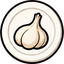
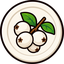
Quacks: snowberry white chip; build version now tracks picture contents so swapped art updates on phones
Claude-Session: https://claude.ai/code/session_01AnktqTJyz91h8fQDCCc9PS

diff --git a/sw.js b/sw.js
@@ -1,5 +1,5 @@
 /* Final Tally offline support. The page is fetched fresh when online; pictures and sounds come from the cache. */
-const VER='ft-fb76835937',FILES=["./", "index.html", "manifest.webmanifest", "manifest-dark.webmanifest", "sync.js", "fb-firebase.js", "art/app-icon.jpg", "art/canasta-banner.jpg", "art/canasta-icon.png", "art/carc-banner.jpg", "art/carc-icon.png", "art/crowns-banner.jpg", "art/crowns-icon.png", "art/darts-banner.jpg", "art/darts-icon.png", "art/drumroll.png", "art/empty-shelf.png", "art/gnome-banner.jpg", "art/gnome-icon.png", "art/golf-banner.jpg", "art/golf-icon.png", "art/hearts-banner.jpg", "art/hearts-icon.png", "art/hero-home.png", "art/hero-ttr.png", "art/hf-banner.jpg", "art/hf-icon.png", "art/linked.jpg", "art/more-games.png", "art/munchkin-banner.jpg", "art/munchkin-icon.png", "art/nerts-banner.jpg", "art/nerts-icon.png", "art/ohell-banner.jpg", "art/ohell-icon.png", "art/pad-icon.png", "art/phase10-banner.jpg", "art/phase10-icon.png", "art/pool-banner.jpg", "art/pool-icon.png", "art/quacks-banner.jpg", "art/quacks-icon.png", "art/rage-banner.jpg", "art/rage-icon.png", "art/rook-banner.jpg", "art/rook-icon.png", "art/skipbo-banner.jpg", "art/skipbo-icon.png", "art/skyjo-banner.jpg", "art/skyjo-icon.png", "art/spades-banner.jpg", "art/spades-icon.png", "art/tourney-banner.jpg", "art/tourney-icon.png", "art/trail/qk-black.png", "art/trail/qk-blue.png", "art/trail/qk-green.png", "art/trail/qk-orange.png", "art/trail/qk-purple.png", "art/trail/qk-red.png", "art/trail/qk-white.png", "art/trail/qk-yellow.png", "art/trail/ws-bird-blue.png", "art/trail/ws-bird-green.png", "art/trail/ws-bird-sky.png", "art/trail/ws-bird-yellow.png", "art/trail/ws-egg-blue.png", "art/trail/ws-egg-cream.png", "art/trail/wy-coin-tilt.png", "art/trail/wy-coin.png", "art/trail/wy-egg.png", "art/trail/wy-gem-blue.png", "art/trail/wy-gem-green.png", "art/trail/wy-gem-purple.png", "art/tripoley-banner.jpg", "art/tripoley-icon.png", "art/ttr-icon.png", "art/uno-banner.jpg", "art/uno-icon.png", "art/wingspan-banner.jpg", "art/wingspan-icon.png", "art/wyrmspan-banner.jpg", "art/wyrmspan-icon.png", "badges/baron.png", "badges/clean.png", "badges/clock.png", "badges/compass.png", "badges/h-christmas.png", "badges/h-easter.png", "badges/h-fireworks.png", "badges/h-halloween.png", "badges/h-thanksgiving.png", "badges/h-valentine.png", "badges/longhaul.png", "badges/risk.png", "badges/s-fall.png", "badges/s-spring.png", "badges/s-summer.png", "badges/s-winter.png", "badges/shortline.png", "badges/shovel.png", "badges/t-compass.png", "badges/t-fire.png", "badges/t-globe.png", "badges/t-hat.png", "badges/t-hourglass.png", "badges/t-laurel.png", "badges/t-rocket.png", "badges/t-star.png", "badges/t-ticket.png", "badges/tickets.png", "icons/icon-152.png", "icons/icon-167.png", "icons/icon-180.png", "icons/icon-192.png", "icons/icon-512.png", "icons/maskable-512.png", "lose/box-red.png", "lose/cburied-red.png", "lose/cdragon-red.png", "lose/cfields-red.png", "lose/clfling-red.png", "lose/clhand-red.png", "lose/clrain-red.png", "lose/clreach-red.png", "lose/cocoa-red.png", "lose/conetile-red.png", "lose/corner-yellow.png", "lose/crater-red.png", "lose/csheep-red.png", "lose/ctantrum-red.png", "lose/dbust-red.png", "lose/dclose-red.png", "lose/dout-red.png", "lose/dwall-red.png", "lose/flip-red.png", "lose/hfcaught-red.png", "lose/hffoot-red.png", "lose/hfred3-red.png", "lose/hfscatter-red.png", "lose/hfshort-red.png", "lose/mkrun-red.png", "lose/pcue-red.png", "lose/pfelt-red.png", "lose/pile-red.png", "lose/pmiss-red.png", "lose/pscratch-red.png", "lose/ptnine-red.png", "lose/ptskip-red.png", "lose/pttorn-red.png", "lose/qkbomb-red.png", "lose/qkboom-red.png", "lose/qkclose-red.png", "lose/qkrats-red.png", "lose/rain-blue.png", "lose/rgflop-red.png", "lose/rgmad-red.png", "lose/rgover-red.png", "lose/rgquit-red.png", "lose/rkflip-red.png", "lose/rkset-red.png", "lose/rkthief-red.png", "lose/shelf-green.png", "lose/splat-red.png", "lose/steal-red-blue.png", "lose/tickets-red.png", "lose/train-blue.png", "lose/wsegg-red.png", "lose/wsfeed-red.png", "lose/wssplat-red.png", "lose/wydrag-red.png", "lose/wyhatch-red.png", "lose/wytoast-red.png", "mask/lose-box.png", "mask/lose-cburied.png", "mask/lose-cdragon.png", "mask/lose-cfields.png", "mask/lose-clfling.png", "mask/lose-clhand.png", "mask/lose-clrain.png", "mask/lose-clreach.png", "mask/lose-cocoa.png", "mask/lose-conetile.png", "mask/lose-corner.png", "mask/lose-crater.png", "mask/lose-csheep.png", "mask/lose-ctantrum.png", "mask/lose-dbust.png", "mask/lose-dclose.png", "mask/lose-dout.png", "mask/lose-dwall.png", "mask/lose-flip.png", "mask/lose-hfcaught.png", "mask/lose-hffoot.png", "mask/lose-hfred3.png", "mask/lose-hfscatter.png", "mask/lose-hfshort.png", "mask/lose-mkrun.png", "mask/lose-pcue.png", "mask/lose-pfelt.png", "mask/lose-pile.png", "mask/lose-pmiss.png", "mask/lose-pscratch.png", "mask/lose-ptnine.png", "mask/lose-ptskip.png", "mask/lose-pttorn.png", "mask/lose-qkbomb.png", "mask/lose-qkboom.png", "mask/lose-qkclose.png", "mask/lose-qkrats.png", "mask/lose-rain.png", "mask/lose-rgflop.png", "mask/lose-rgmad.png", "mask/lose-rgover.png", "mask/lose-rgquit.png", "mask/lose-rkflip.png", "mask/lose-rkset.png", "mask/lose-rkthief.png", "mask/lose-shelf.png", "mask/lose-splat.png", "mask/lose-steal.png", "mask/lose-tickets.png", "mask/lose-train.png", "mask/lose-wsegg.png", "mask/lose-wsfeed.png", "mask/lose-wssplat.png", "mask/lose-wydrag.png", "mask/lose-wyhatch.png", "mask/lose-wytoast.png", "mask/train-box.png", "mask/train-caboose.png", "mask/train-engine.png", "mask/train-hopper.png", "mask/train-tank.png", "mask/wait-secret.png", "mask/win-cbigcity.png", "mask/win-cfarmer.png", "mask/win-champ.png", "mask/win-cking.png", "mask/win-clasttile.png", "mask/win-comeback.png", "mask/win-crown.png", "mask/win-cwcool.png", "mask/win-cwcrown.png", "mask/win-cwdance.png", "mask/win-cwtrophy.png", "mask/win-d180.png", "mask/win-dance.png", "mask/win-dbull.png", "mask/win-dcheck.png", "mask/win-dlast.png", "mask/win-first.png", "mask/win-hfbooks.png", "mask/win-hfcalm.png", "mask/win-hffan.png", "mask/win-hfout.png", "mask/win-hftrophy.png", "mask/win-p8win.png", "mask/win-parade.png", "mask/win-pbreak.png", "mask/win-pcool.png", "mask/win-photo.png", "mask/win-ptbreak.png", "mask/win-ptrophy.png", "mask/win-ptstairs.png", "mask/win-qkcalm.png", "mask/win-qkdie.png", "mask/win-qkmaster.png", "mask/win-qkperfect.png", "mask/win-rgcall.png", "mask/win-rgfore.png", "mask/win-rgking.png", "mask/win-rgmoon.png", "mask/win-rksetem.png", "mask/win-rksweep.png", "mask/win-shared.png", "mask/win-swfckings.png", "mask/win-swgfeagle.png", "mask/win-swgnhole.png", "mask/win-swhtmoon.png", "mask/win-swmkwin.png", "mask/win-swohnail.png", "mask/win-swohzero.png", "mask/win-swsbstock.png", "mask/win-swsdset.png", "mask/win-swskcol.png", "mask/win-swtphaul.png", "mask/win-throne.png", "mask/win-wire-a.png", "mask/win-wire-b.png", "mask/win-wire.png", "mask/win-wsstrut.png", "mask/win-wstweet.png", "mask/win-wyhoard.png", "mask/win-wyrodeo.png", "sfx/clatter.mp3", "sfx/drumroll.mp3", "sfx/lose.mp3", "sfx/pew.mp3", "sfx/whistle.mp3", "sfx/win.mp3", "train/box-red.png", "train/caboose-red.png", "train/engine-red.png", "train/hopper-red.png", "train/tank-red.png", "wait/secret-red.png", "win/cbigcity-red.png", "win/cfarmer-red.png", "win/champ-red.png", "win/cking-red.png", "win/clasttile-red.png", "win/comeback-red-blue.png", "win/crown-red.png", "win/cwcool-red.png", "win/cwcrown-red.png", "win/cwdance-red.png", "win/cwtrophy-red.png", "win/d180-red.png", "win/dance-red.png", "win/dbull-red.png", "win/dcheck-red.png", "win/dlast-red.png", "win/first-red.png", "win/hfbooks-red.png", "win/hfcalm-red.png", "win/hffan-red.png", "win/hfout-red.png", "win/hftrophy-red.png", "win/p8win-red.png", "win/parade-red.png", "win/pbreak-red.png", "win/pcool-red.png", "win/photo-red-blue.png", "win/ptbreak-red.png", "win/ptrophy-red.png", "win/ptstairs-red.png", "win/qkcalm-red.png", "win/qkdie-red.png", "win/qkmaster-red.png", "win/qkperfect-red.png", "win/rgcall-red.png", "win/rgfore-red.png", "win/rgking-red.png", "win/rgmoon-red.png", "win/rksetem-red.png", "win/rksweep-red.png", "win/shared-red-blue.png", "win/swfckings-red.png", "win/swgfeagle-red.png", "win/swgnhole-red.png", "win/swhtmoon-red.png", "win/swmkwin-red.png", "win/swohnail-red.png", "win/swohzero-red.png", "win/swsbstock-red.png", "win/swsdset-red.png", "win/swskcol-red.png", "win/swtphaul-red.png", "win/throne-red.png", "win/wire-a-green.png", "win/wire-b-blue.png", "win/wire-red.png", "win/wsstrut-red.png", "win/wstweet-red.png", "win/wyhoard-red.png", "win/wyrodeo-red.png"],CORE=FILES.filter(f=>!/^(win|lose)\//.test(f)),LATER=FILES.filter(f=>/^(win|lose)\//.test(f));
+const VER='ft-1ddbf1cfdf',FILES=["./", "index.html", "manifest.webmanifest", "manifest-dark.webmanifest", "sync.js", "fb-firebase.js", "art/app-icon.jpg", "art/canasta-banner.jpg", "art/canasta-icon.png", "art/carc-banner.jpg", "art/carc-icon.png", "art/crowns-banner.jpg", "art/crowns-icon.png", "art/darts-banner.jpg", "art/darts-icon.png", "art/drumroll.png", "art/empty-shelf.png", "art/gnome-banner.jpg", "art/gnome-icon.png", "art/golf-banner.jpg", "art/golf-icon.png", "art/hearts-banner.jpg", "art/hearts-icon.png", "art/hero-home.png", "art/hero-ttr.png", "art/hf-banner.jpg", "art/hf-icon.png", "art/linked.jpg", "art/more-games.png", "art/munchkin-banner.jpg", "art/munchkin-icon.png", "art/nerts-banner.jpg", "art/nerts-icon.png", "art/ohell-banner.jpg", "art/ohell-icon.png", "art/pad-icon.png", "art/phase10-banner.jpg", "art/phase10-icon.png", "art/pool-banner.jpg", "art/pool-icon.png", "art/quacks-banner.jpg", "art/quacks-icon.png", "art/rage-banner.jpg", "art/rage-icon.png", "art/rook-banner.jpg", "art/rook-icon.png", "art/skipbo-banner.jpg", "art/skipbo-icon.png", "art/skyjo-banner.jpg", "art/skyjo-icon.png", "art/spades-banner.jpg", "art/spades-icon.png", "art/tourney-banner.jpg", "art/tourney-icon.png", "art/trail/qk-black.png", "art/trail/qk-blue.png", "art/trail/qk-green.png", "art/trail/qk-orange.png", "art/trail/qk-purple.png", "art/trail/qk-red.png", "art/trail/qk-white.png", "art/trail/qk-yellow.png", "art/trail/ws-bird-blue.png", "art/trail/ws-bird-green.png", "art/trail/ws-bird-sky.png", "art/trail/ws-bird-yellow.png", "art/trail/ws-egg-blue.png", "art/trail/ws-egg-cream.png", "art/trail/wy-coin-tilt.png", "art/trail/wy-coin.png", "art/trail/wy-egg.png", "art/trail/wy-gem-blue.png", "art/trail/wy-gem-green.png", "art/trail/wy-gem-purple.png", "art/tripoley-banner.jpg", "art/tripoley-icon.png", "art/ttr-icon.png", "art/uno-banner.jpg", "art/uno-icon.png", "art/wingspan-banner.jpg", "art/wingspan-icon.png", "art/wyrmspan-banner.jpg", "art/wyrmspan-icon.png", "badges/baron.png", "badges/clean.png", "badges/clock.png", "badges/compass.png", "badges/h-christmas.png", "badges/h-easter.png", "badges/h-fireworks.png", "badges/h-halloween.png", "badges/h-thanksgiving.png", "badges/h-valentine.png", "badges/longhaul.png", "badges/risk.png", "badges/s-fall.png", "badges/s-spring.png", "badges/s-summer.png", "badges/s-winter.png", "badges/shortline.png", "badges/shovel.png", "badges/t-compass.png", "badges/t-fire.png", "badges/t-globe.png", "badges/t-hat.png", "badges/t-hourglass.png", "badges/t-laurel.png", "badges/t-rocket.png", "badges/t-star.png", "badges/t-ticket.png", "badges/tickets.png", "icons/icon-152.png", "icons/icon-167.png", "icons/icon-180.png", "icons/icon-192.png", "icons/icon-512.png", "icons/maskable-512.png", "lose/box-red.png", "lose/cburied-red.png", "lose/cdragon-red.png", "lose/cfields-red.png", "lose/clfling-red.png", "lose/clhand-red.png", "lose/clrain-red.png", "lose/clreach-red.png", "lose/cocoa-red.png", "lose/conetile-red.png", "lose/corner-yellow.png", "lose/crater-red.png", "lose/csheep-red.png", "lose/ctantrum-red.png", "lose/dbust-red.png", "lose/dclose-red.png", "lose/dout-red.png", "lose/dwall-red.png", "lose/flip-red.png", "lose/hfcaught-red.png", "lose/hffoot-red.png", "lose/hfred3-red.png", "lose/hfscatter-red.png", "lose/hfshort-red.png", "lose/mkrun-red.png", "lose/pcue-red.png", "lose/pfelt-red.png", "lose/pile-red.png", "lose/pmiss-red.png", "lose/pscratch-red.png", "lose/ptnine-red.png", "lose/ptskip-red.png", "lose/pttorn-red.png", "lose/qkbomb-red.png", "lose/qkboom-red.png", "lose/qkclose-red.png", "lose/qkrats-red.png", "lose/rain-blue.png", "lose/rgflop-red.png", "lose/rgmad-red.png", "lose/rgover-red.png", "lose/rgquit-red.png", "lose/rkflip-red.png", "lose/rkset-red.png", "lose/rkthief-red.png", "lose/shelf-green.png", "lose/splat-red.png", "lose/steal-red-blue.png", "lose/tickets-red.png", "lose/train-blue.png", "lose/wsegg-red.png", "lose/wsfeed-red.png", "lose/wssplat-red.png", "lose/wydrag-red.png", "lose/wyhatch-red.png", "lose/wytoast-red.png", "mask/lose-box.png", "mask/lose-cburied.png", "mask/lose-cdragon.png", "mask/lose-cfields.png", "mask/lose-clfling.png", "mask/lose-clhand.png", "mask/lose-clrain.png", "mask/lose-clreach.png", "mask/lose-cocoa.png", "mask/lose-conetile.png", "mask/lose-corner.png", "mask/lose-crater.png", "mask/lose-csheep.png", "mask/lose-ctantrum.png", "mask/lose-dbust.png", "mask/lose-dclose.png", "mask/lose-dout.png", "mask/lose-dwall.png", "mask/lose-flip.png", "mask/lose-hfcaught.png", "mask/lose-hffoot.png", "mask/lose-hfred3.png", "mask/lose-hfscatter.png", "mask/lose-hfshort.png", "mask/lose-mkrun.png", "mask/lose-pcue.png", "mask/lose-pfelt.png", "mask/lose-pile.png", "mask/lose-pmiss.png", "mask/lose-pscratch.png", "mask/lose-ptnine.png", "mask/lose-ptskip.png", "mask/lose-pttorn.png", "mask/lose-qkbomb.png", "mask/lose-qkboom.png", "mask/lose-qkclose.png", "mask/lose-qkrats.png", "mask/lose-rain.png", "mask/lose-rgflop.png", "mask/lose-rgmad.png", "mask/lose-rgover.png", "mask/lose-rgquit.png", "mask/lose-rkflip.png", "mask/lose-rkset.png", "mask/lose-rkthief.png", "mask/lose-shelf.png", "mask/lose-splat.png", "mask/lose-steal.png", "mask/lose-tickets.png", "mask/lose-train.png", "mask/lose-wsegg.png", "mask/lose-wsfeed.png", "mask/lose-wssplat.png", "mask/lose-wydrag.png", "mask/lose-wyhatch.png", "mask/lose-wytoast.png", "mask/train-box.png", "mask/train-caboose.png", "mask/train-engine.png", "mask/train-hopper.png", "mask/train-tank.png", "mask/wait-secret.png", "mask/win-cbigcity.png", "mask/win-cfarmer.png", "mask/win-champ.png", "mask/win-cking.png", "mask/win-clasttile.png", "mask/win-comeback.png", "mask/win-crown.png", "mask/win-cwcool.png", "mask/win-cwcrown.png", "mask/win-cwdance.png", "mask/win-cwtrophy.png", "mask/win-d180.png", "mask/win-dance.png", "mask/win-dbull.png", "mask/win-dcheck.png", "mask/win-dlast.png", "mask/win-first.png", "mask/win-hfbooks.png", "mask/win-hfcalm.png", "mask/win-hffan.png", "mask/win-hfout.png", "mask/win-hftrophy.png", "mask/win-p8win.png", "mask/win-parade.png", "mask/win-pbreak.png", "mask/win-pcool.png", "mask/win-photo.png", "mask/win-ptbreak.png", "mask/win-ptrophy.png", "mask/win-ptstairs.png", "mask/win-qkcalm.png", "mask/win-qkdie.png", "mask/win-qkmaster.png", "mask/win-qkperfect.png", "mask/win-rgcall.png", "mask/win-rgfore.png", "mask/win-rgking.png", "mask/win-rgmoon.png", "mask/win-rksetem.png", "mask/win-rksweep.png", "mask/win-shared.png", "mask/win-swfckings.png", "mask/win-swgfeagle.png", "mask/win-swgnhole.png", "mask/win-swhtmoon.png", "mask/win-swmkwin.png", "mask/win-swohnail.png", "mask/win-swohzero.png", "mask/win-swsbstock.png", "mask/win-swsdset.png", "mask/win-swskcol.png", "mask/win-swtphaul.png", "mask/win-throne.png", "mask/win-wire-a.png", "mask/win-wire-b.png", "mask/win-wire.png", "mask/win-wsstrut.png", "mask/win-wstweet.png", "mask/win-wyhoard.png", "mask/win-wyrodeo.png", "sfx/clatter.mp3", "sfx/drumroll.mp3", "sfx/lose.mp3", "sfx/pew.mp3", "sfx/whistle.mp3", "sfx/win.mp3", "train/box-red.png", "train/caboose-red.png", "train/engine-red.png", "train/hopper-red.png", "train/tank-red.png", "wait/secret-red.png", "win/cbigcity-red.png", "win/cfarmer-red.png", "win/champ-red.png", "win/cking-red.png", "win/clasttile-red.png", "win/comeback-red-blue.png", "win/crown-red.png", "win/cwcool-red.png", "win/cwcrown-red.png", "win/cwdance-red.png", "win/cwtrophy-red.png", "win/d180-red.png", "win/dance-red.png", "win/dbull-red.png", "win/dcheck-red.png", "win/dlast-red.png", "win/first-red.png", "win/hfbooks-red.png", "win/hfcalm-red.png", "win/hffan-red.png", "win/hfout-red.png", "win/hftrophy-red.png", "win/p8win-red.png", "win/parade-red.png", "win/pbreak-red.png", "win/pcool-red.png", "win/photo-red-blue.png", "win/ptbreak-red.png", "win/ptrophy-red.png", "win/ptstairs-red.png", "win/qkcalm-red.png", "win/qkdie-red.png", "win/qkmaster-red.png", "win/qkperfect-red.png", "win/rgcall-red.png", "win/rgfore-red.png", "win/rgking-red.png", "win/rgmoon-red.png", "win/rksetem-red.png", "win/rksweep-red.png", "win/shared-red-blue.png", "win/swfckings-red.png", "win/swgfeagle-red.png", "win/swgnhole-red.png", "win/swhtmoon-red.png", "win/swmkwin-red.png", "win/swohnail-red.png", "win/swohzero-red.png", "win/swsbstock-red.png", "win/swsdset-red.png", "win/swskcol-red.png", "win/swtphaul-red.png", "win/throne-red.png", "win/wire-a-green.png", "win/wire-b-blue.png", "win/wire-red.png", "win/wsstrut-red.png", "win/wstweet-red.png", "win/wyhoard-red.png", "win/wyrodeo-red.png"],CORE=FILES.filter(f=>!/^(win|lose)\//.test(f)),LATER=FILES.filter(f=>/^(win|lose)\//.test(f));
 self.addEventListener('install',e=>{e.waitUntil(caches.open(VER).then(c=>c.addAll(CORE)).then(()=>self.skipWaiting()))});
 self.addEventListener('activate',e=>{e.waitUntil(caches.keys().then(ks=>Promise.all(ks.filter(k=>k.startsWith('ft-')&&k!==VER).map(k=>caches.delete(k)))).then(()=>self.clients.claim()));
   /* fetch the win and lose pictures quietly in the background so reveals work offline */

diff --git a/index.html b/index.html
@@ -8168,6 +8168,6 @@ render();
 
 <script type="module" src="fb-firebase.js"></script>
 <script>(function(){var ms=document.querySelectorAll('meta[name=theme-color]');function t(){try{var c=getComputedStyle(document.body).backgroundColor;for(var i=0;i<ms.length;i++)if(c&&ms[i].content!==c)ms[i].content=c;var n=(c.match(/\d+/g)||[255,255,255]).slice(0,3).reduce(function(x,y){return x+ +y},0),cs=n<384?'dark':'light',cm=document.querySelector('meta[name=color-scheme]');if(cm&&cm.content!==cs)cm.content=cs;if(document.documentElement.style.colorScheme!==cs)document.documentElement.style.colorScheme=cs;var mf=document.getElementById('mf'),mh=cs==='dark'?'manifest-dark.webmanifest':'manifest.webmanifest';if(mf&&mf.getAttribute('href')!==mh)mf.setAttribute('href',mh)}catch(e){}}t();setTimeout(t,300);try{matchMedia('(prefers-color-scheme: dark)').addEventListener('change',function(){setTimeout(t,50)})}catch(e){}new MutationObserver(t).observe(document.documentElement,{attributes:true,attributeFilter:['data-theme','class']})})();</script>
-<script>if('serviceWorker' in navigator&&isSecureContext)addEventListener('load',()=>navigator.serviceWorker.register('sw.js').catch(()=>{}));if('serviceWorker' in navigator){var hadSW=!!navigator.serviceWorker.controller,t0=Date.now();navigator.serviceWorker.addEventListener('controllerchange',function(){if(!hadSW||window.FT_UPD)return;window.FT_UPD=1;var safe=function(){try{return typeof S!=='undefined'&&S.screen==='home'&&!S.demo&&!document.querySelector('input:focus,.sheet-bg')}catch(e){return false}};if(Date.now()-t0<15000&&safe()){location.reload();return}var iv=setInterval(function(){if(safe()){clearInterval(iv);location.reload()}},1500)})}window.FT_BUILD='fb7683';</script>
+<script>if('serviceWorker' in navigator&&isSecureContext)addEventListener('load',()=>navigator.serviceWorker.register('sw.js').catch(()=>{}));if('serviceWorker' in navigator){var hadSW=!!navigator.serviceWorker.controller,t0=Date.now();navigator.serviceWorker.addEventListener('controllerchange',function(){if(!hadSW||window.FT_UPD)return;window.FT_UPD=1;var safe=function(){try{return typeof S!=='undefined'&&S.screen==='home'&&!S.demo&&!document.querySelector('input:focus,.sheet-bg')}catch(e){return false}};if(Date.now()-t0<15000&&safe()){location.reload();return}var iv=setInterval(function(){if(safe()){clearInterval(iv);location.reload()}},1500)})}window.FT_BUILD='1ddbf1';</script>
 </body>
 </html>

diff --git a/tools/build.py b/tools/build.py
@@ -54,7 +54,11 @@ html=html.replace('<link rel="apple-touch-icon" href="art/app-icon.jpg">','<link
 html=html.replace('<link rel="icon" type="image/jpeg" href="art/app-icon.jpg">','<link rel="icon" type="image/png" sizes="192x192" href="icons/icon-192.png">')
 body_start=html.index('<style>')
 head=html[:body_start]; rest=html[body_start:]
-ver=hashlib.sha1((html+''.join(sorted(files))+open('/home/claude/site-tools/sync.js').read()+open('/home/claude/site-tools/fb-firebase.js').read()+open('/home/claude/site-tools/sw.js').read()+open('/home/claude/site-tools/build.py').read()+open('/home/claude/site-tools/headpatch.js').read()).encode()).hexdigest()[:10]
+_fh=hashlib.sha1()
+for _f in sorted(files):
+    _fp=os.path.join(OUT,_f)
+    if os.path.isfile(_fp):_fh.update(_f.encode());_fh.update(open(_fp,'rb').read())
+ver=hashlib.sha1((html+_fh.hexdigest()+''.join(sorted(files))+open('/home/claude/site-tools/sync.js').read()+open('/home/claude/site-tools/fb-firebase.js').read()+open('/home/claude/site-tools/sw.js').read()+open('/home/claude/site-tools/build.py').read()+open('/home/claude/site-tools/headpatch.js').read()).encode()).hexdigest()[:10]
 sw_reg=f'''<script type="module" src="fb-firebase.js"></script>\n<script>(function(){{var ms=document.querySelectorAll('meta[name=theme-color]');function t(){{try{{var c=getComputedStyle(document.body).backgroundColor;for(var i=0;i<ms.length;i++)if(c&&ms[i].content!==c)ms[i].content=c;var n=(c.match(/\\d+/g)||[255,255,255]).slice(0,3).reduce(function(x,y){{return x+ +y}},0),cs=n<384?'dark':'light',cm=document.querySelector('meta[name=color-scheme]');if(cm&&cm.content!==cs)cm.content=cs;if(document.documentElement.style.colorScheme!==cs)document.documentElement.style.colorScheme=cs;var mf=document.getElementById('mf'),mh=cs==='dark'?'manifest-dark.webmanifest':'manifest.webmanifest';if(mf&&mf.getAttribute('href')!==mh)mf.setAttribute('href',mh)}}catch(e){{}}}}t();setTimeout(t,300);try{{matchMedia('(prefers-color-scheme: dark)').addEventListener('change',function(){{setTimeout(t,50)}})}}catch(e){{}}new MutationObserver(t).observe(document.documentElement,{{attributes:true,attributeFilter:['data-theme','class']}})}})();</script>\n<script>if('serviceWorker' in navigator&&isSecureContext)addEventListener('load',()=>navigator.serviceWorker.register('sw.js').catch(()=>{{}}));if('serviceWorker' in navigator){{var hadSW=!!navigator.serviceWorker.controller,t0=Date.now();navigator.serviceWorker.addEventListener('controllerchange',function(){{if(!hadSW||window.FT_UPD)return;window.FT_UPD=1;var safe=function(){{try{{return typeof S!=='undefined'&&S.screen==='home'&&!S.demo&&!document.querySelector('input:focus,.sheet-bg')}}catch(e){{return false}}}};if(Date.now()-t0<15000&&safe()){{location.reload();return}}var iv=setInterval(function(){{if(safe()){{clearInterval(iv);location.reload()}}}},1500)}})}}window.FT_BUILD='{ver[:6]}';</script>'''
 page=f'<!doctype html>\n<html lang="en">\n<head>\n{head_extra}\n{head}</head>\n<body>\n{rest}\n{sw_reg}\n</body>\n</html>\n'
 open(f'{OUT}/index.html','w').write(page)
